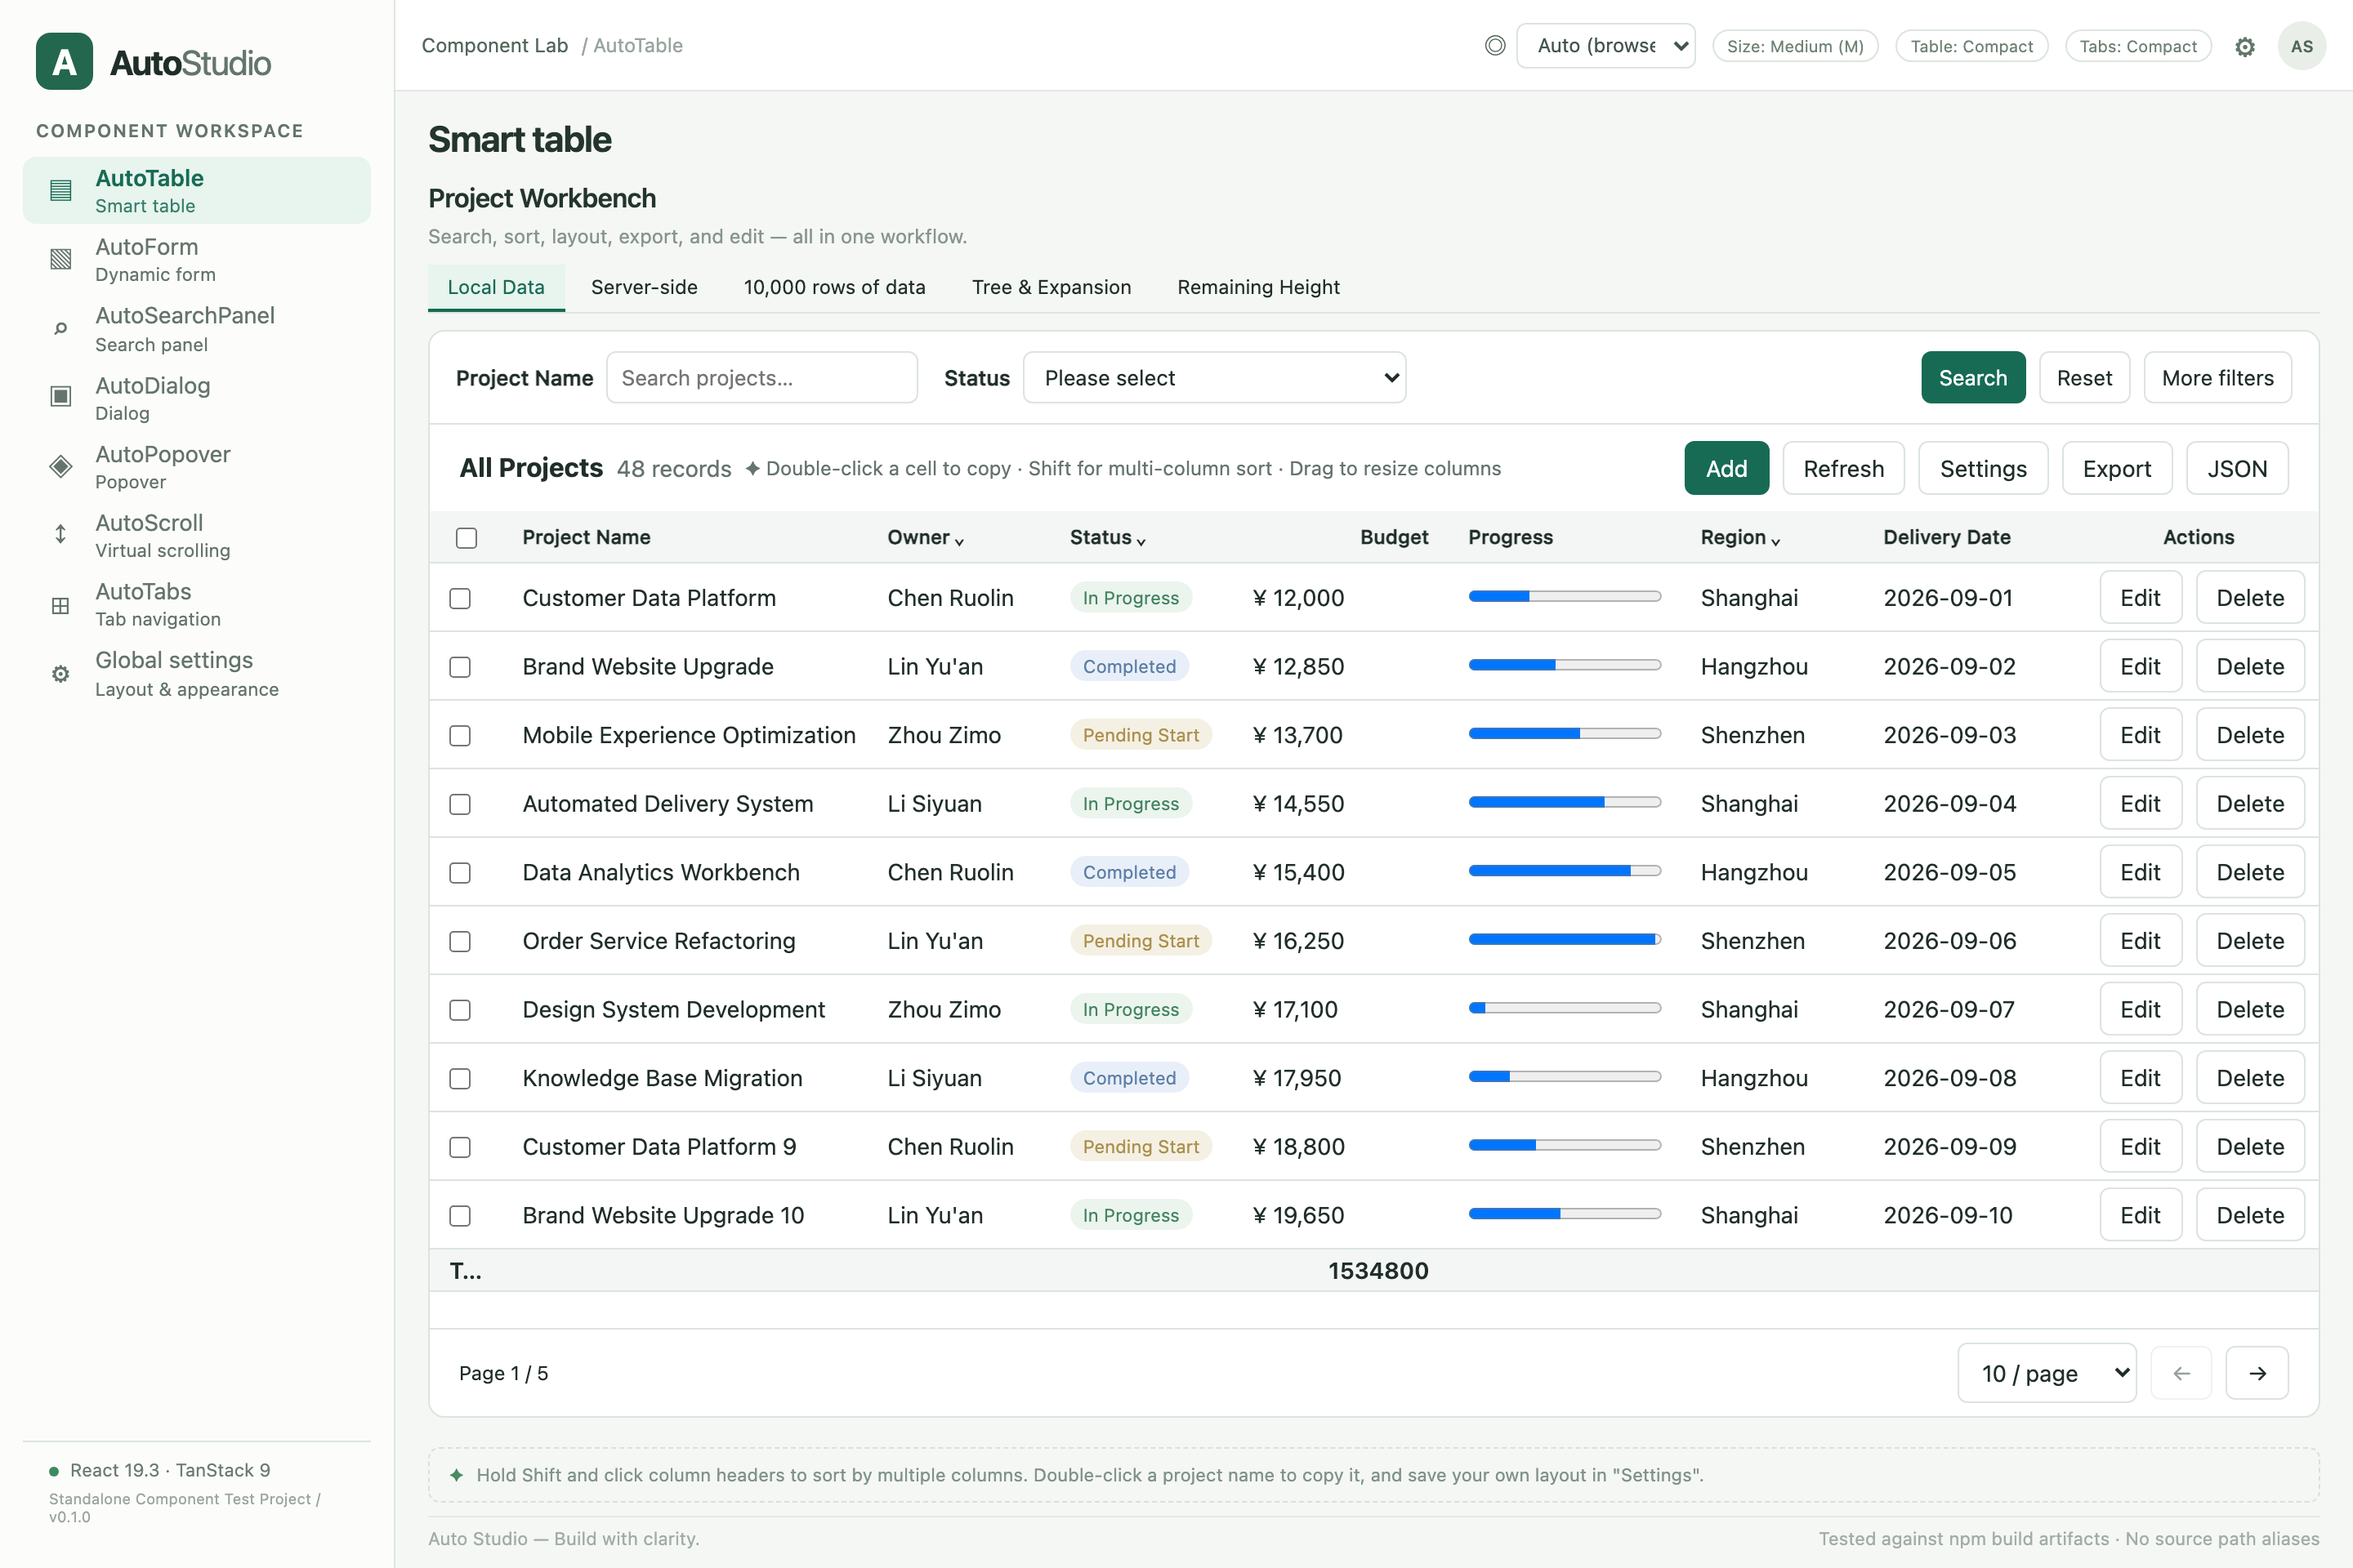
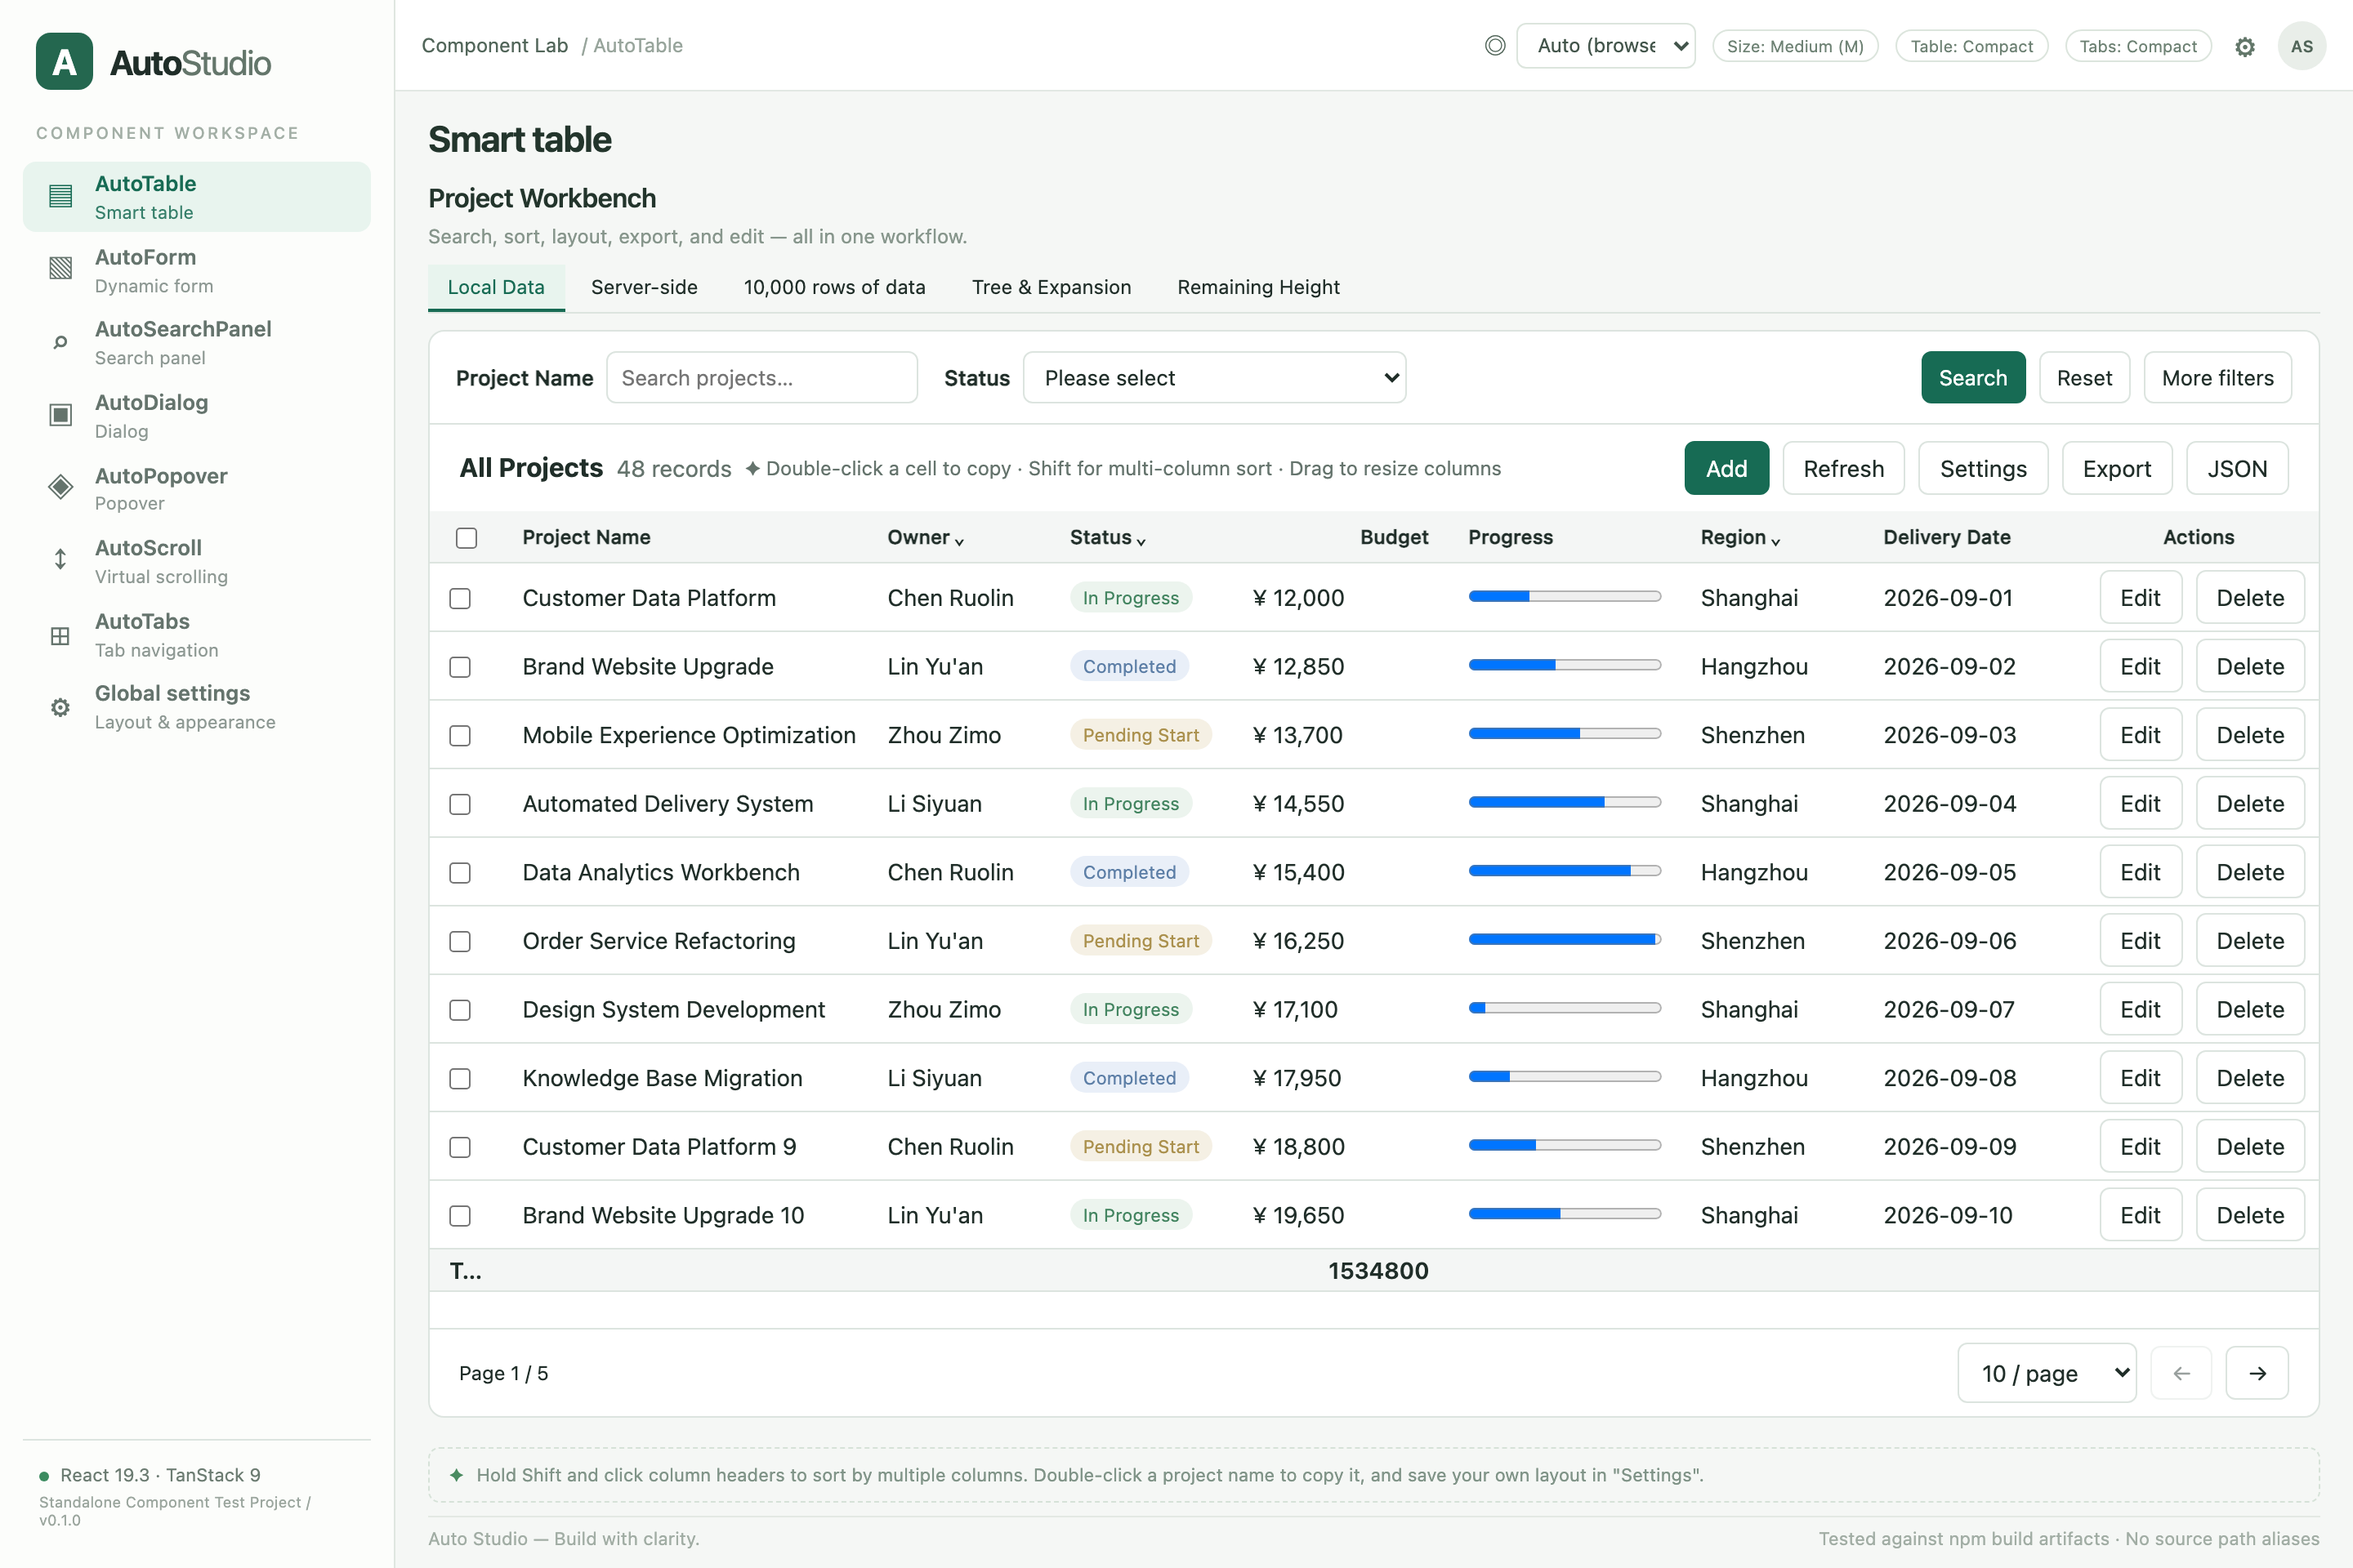
style(menu): optimize AutoMenu styling and visual hierarchy

Changed region(s): [[0.0, 0.0625, 0.125, 0.4688], [0.0, 0.9062, 0.125, 0.9688]]

diff --git a/src/styles/base.css b/src/styles/base.css
@@ -894,12 +894,13 @@
 }
 
 .auto-menu-label {
-  font-size: 11px;
+  font-size: 10px;
   font-weight: 600;
-  letter-spacing: 0.08em;
+  letter-spacing: 1.5px;
   text-transform: uppercase;
   color: var(--auto-secondary);
-  margin: 6px 10px 2px;
+  opacity: 0.85;
+  margin: 14px 10px 6px;
   user-select: none;
 }
 
@@ -909,7 +910,7 @@
   padding: 0;
   display: flex;
   flex-direction: column;
-  gap: 2px;
+  gap: 4px;
   flex: 1 1 auto;
   min-height: 0;
   overflow-y: auto;
@@ -929,16 +930,16 @@
 .auto-menu [data-auto-menu-item] {
   display: flex;
   align-items: center;
-  gap: 10px;
+  gap: 12px;
   text-align: left;
   width: 100%;
   min-width: 0;
-  min-height: 36px;
+  min-height: 40px;
   border: 0;
   background: transparent;
   color: var(--auto-secondary);
-  padding: 7px 10px;
-  border-radius: var(--auto-radius);
+  padding: 9px 12px;
+  border-radius: var(--auto-radius, 8px);
   font-size: var(--auto-control-font, 14px);
   line-height: 1.3;
   cursor: pointer;
@@ -1012,9 +1013,9 @@
 
 /* Icons, text and badges */
 .auto-menu-icon {
-  font-size: 1.25em;
-  width: 1.5em;
-  height: 1.5em;
+  font-size: 19px;
+  width: 22px;
+  height: 22px;
   display: grid;
   place-items: center;
   flex-shrink: 0;
@@ -1026,16 +1027,20 @@
   flex: 1 1 auto;
   display: flex;
   flex-direction: column;
+  font-size: 13px;
+  font-weight: 600;
   overflow-wrap: break-word;
   word-break: break-word;
   line-height: 1.3;
 }
 
 .auto-menu-text small {
-  font-size: 0.8em;
+  display: block;
+  font-size: 11px;
   font-weight: 400;
-  color: var(--auto-secondary);
-  margin-top: 1px;
+  color: inherit;
+  opacity: 0.72;
+  margin-top: 2px;
   line-height: 1.25;
   overflow-wrap: break-word;
   word-break: break-word;
@@ -1078,13 +1083,13 @@
 
 /* Nested lists: guide tree line and indent */
 .auto-menu:not(.auto-menu-flyout) .auto-menu-list .auto-menu-list {
-  margin: 2px 0 3px;
+  margin: 3px 0 4px;
   padding-left: 12px;
   border-left: 1px solid var(--auto-border);
-  margin-left: 17px;
+  margin-left: 18px;
   flex: 0 0 auto;
   overflow: visible;
-  gap: 2px;
+  gap: 3px;
 }
 
 .auto-menu:not(.auto-menu-flyout)
@@ -1092,8 +1097,18 @@
   .auto-menu-list
   [data-auto-menu-item] {
   font-size: calc(var(--auto-control-font, 14px) * 0.93);
-  min-height: 32px;
-  padding: 5px 8px;
+  min-height: 34px;
+  padding: 6px 10px;
+  gap: 10px;
+}
+
+.auto-menu:not(.auto-menu-flyout)
+  .auto-menu-list
+  .auto-menu-list
+  [data-auto-menu-item]
+  .auto-menu-text {
+  font-size: 12px;
+  font-weight: 500;
 }
 
 /* Footer & Collapse control: pinned at bottom, dedicated button styling */
@@ -1101,13 +1116,13 @@
   margin-top: auto;
   flex-shrink: 0;
   border-top: 1px solid var(--auto-border);
-  padding: 8px 8px 4px;
+  padding: 14px 10px 4px;
 }
 
 .auto-menu-footer > .sidebar-footer {
   border-top: none;
   margin-top: 0;
-  padding-top: 2px;
+  padding: 0;
 }
 
 .auto-menu-collapse-btn {
@@ -1206,10 +1221,24 @@
 
 /* Sizes: buttons always >= 32px tall */
 .auto-menu[data-size="small"] [data-auto-menu-item] {
-  padding: 5px 8px;
-  font-size: 13px;
-  min-height: 32px;
-  gap: 8px;
+  padding: 6px 10px;
+  font-size: 12px;
+  min-height: 34px;
+  gap: 10px;
+}
+
+.auto-menu[data-size="small"] .auto-menu-icon {
+  font-size: 16px;
+  width: 18px;
+  height: 18px;
+}
+
+.auto-menu[data-size="small"] .auto-menu-text {
+  font-size: 12px;
+}
+
+.auto-menu[data-size="small"] .auto-menu-text small {
+  font-size: 10.5px;
 }
 
 .auto-menu[data-size="small"] .auto-menu-list .auto-menu-list {
@@ -1218,10 +1247,20 @@
 }
 
 .auto-menu[data-size="large"] [data-auto-menu-item] {
-  padding: 10px 14px;
+  padding: 11px 16px;
   font-size: 15px;
-  min-height: 44px;
-  gap: 12px;
+  min-height: 48px;
+  gap: 14px;
+}
+
+.auto-menu[data-size="large"] .auto-menu-icon {
+  font-size: 21px;
+  width: 24px;
+  height: 24px;
+}
+
+.auto-menu[data-size="large"] .auto-menu-text {
+  font-size: 14.5px;
 }
 
 .auto-menu[data-size="large"] .auto-menu-text small {
@@ -1246,14 +1285,14 @@
 }
 
 .auto-menu[data-density="compact"] .auto-menu-list {
-  gap: 1px;
+  gap: 2px;
 }
 
 .auto-menu[data-density="compact"] [data-auto-menu-item] {
-  padding-top: 4px;
-  padding-bottom: 4px;
-  min-height: 32px;
-  gap: 8px;
+  padding-top: 5px;
+  padding-bottom: 5px;
+  min-height: 34px;
+  gap: 10px;
 }
 
 .auto-menu[data-density="compact"][data-collapsed="true"]

diff --git a/test-project/src/styles.css b/test-project/src/styles.css
@@ -109,24 +109,29 @@ input:focus-visible {
 
 /* Sidebar menu itself is the library's AutoMenu component. */
 .studio .auto-menu {
-  gap: 0;
+  flex: 1 1 auto;
+  min-height: 0;
 }
 
 .studio .auto-menu-label {
+  font-size: 10px;
+  letter-spacing: 1.5px;
+  color: #94a298;
   margin: 18px 8px 10px;
+  font-weight: 500;
 }
 
 .sidebar-footer {
   flex-shrink: 0;
   border-top: 0;
-  padding: 4px 8px 2px;
+  padding: 0 4px;
   font-size: 11px;
   color: #6c7c72;
 }
 
 .sidebar-footer small {
   display: block;
-  margin-top: 6px;
+  margin-top: 5px;
   color: #9ba69e;
 }
 
@@ -897,6 +902,58 @@ h3 {
 .studio-dark .version-pill {
   border-color: #3c5143;
   color: #9ab0a1;
+}
+
+.studio-dark .auto-menu-label {
+  color: #7d9685;
+}
+
+.studio-dark .studio .auto-menu [data-auto-menu-item] {
+  color: #9eb5a5;
+}
+
+.studio-dark .studio .auto-menu [data-auto-menu-item]:hover:not(:disabled) {
+  background: #243c2e;
+  color: #dce5de;
+}
+
+.studio-dark .studio .auto-menu [data-auto-menu-item].active,
+.studio-dark .studio .auto-menu [data-auto-menu-item][aria-current="page"] {
+  background: #294333;
+  color: #6ed19d;
+}
+
+.studio-dark .studio .auto-menu [data-auto-menu-item].active .auto-menu-icon,
+.studio-dark
+  .studio
+  .auto-menu
+  [data-auto-menu-item][aria-current="page"]
+  .auto-menu-icon {
+  color: #6ed19d;
+}
+
+.studio-dark
+  .studio
+  .auto-menu
+  [data-auto-menu-item].active
+  .auto-menu-text
+  small,
+.studio-dark
+  .studio
+  .auto-menu
+  [data-auto-menu-item][aria-current="page"]
+  .auto-menu-text
+  small {
+  color: #6ed19d;
+  opacity: 0.85;
+}
+
+.studio-dark .sidebar-footer {
+  color: #8da294;
+}
+
+.studio-dark .sidebar-footer small {
+  color: #6d8073;
 }
 
 /* ==========================================================================
